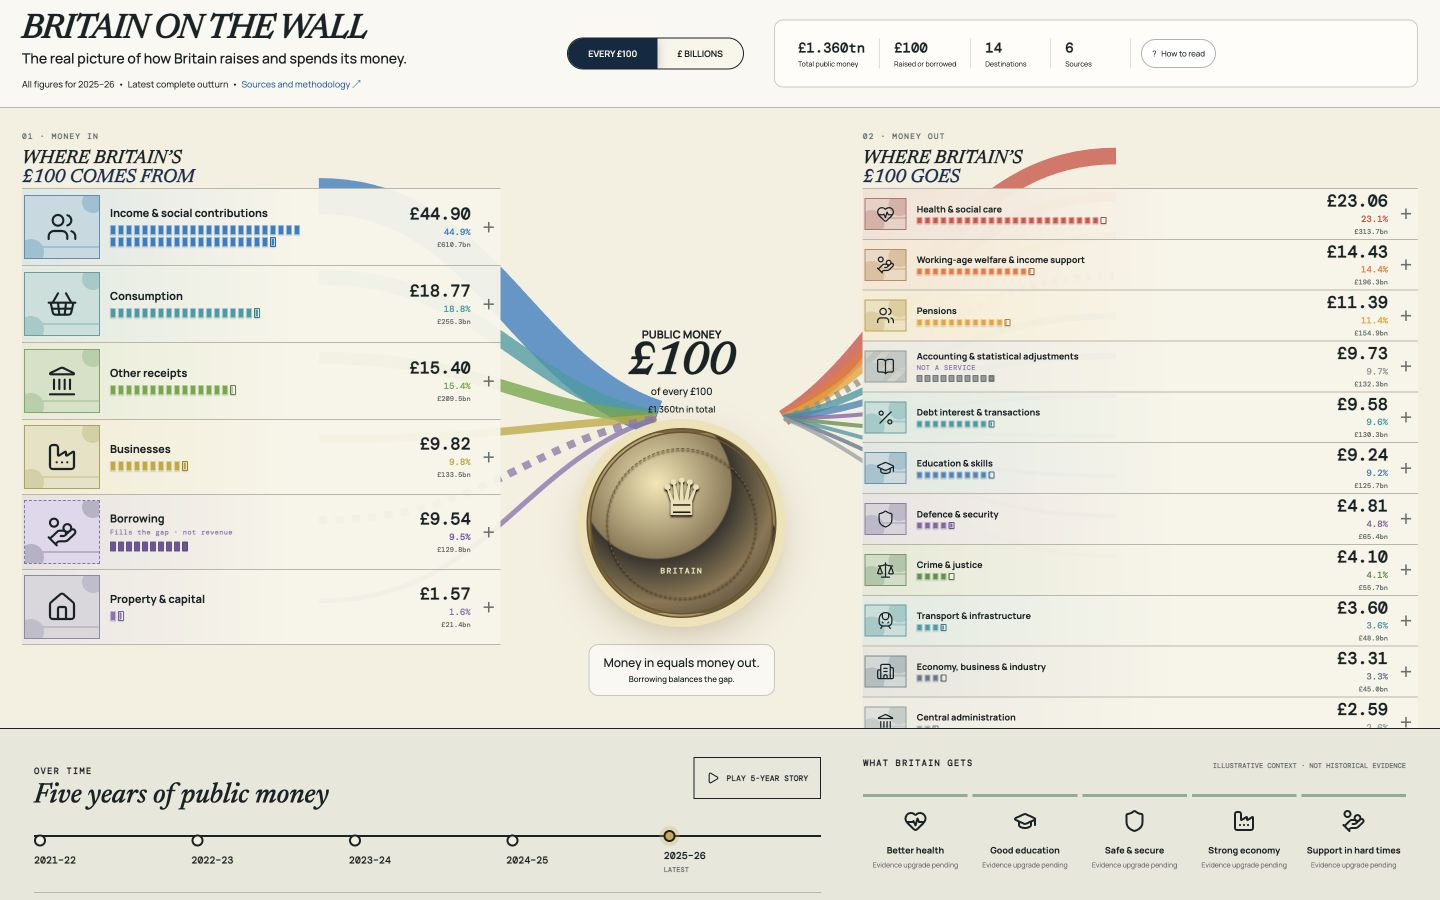
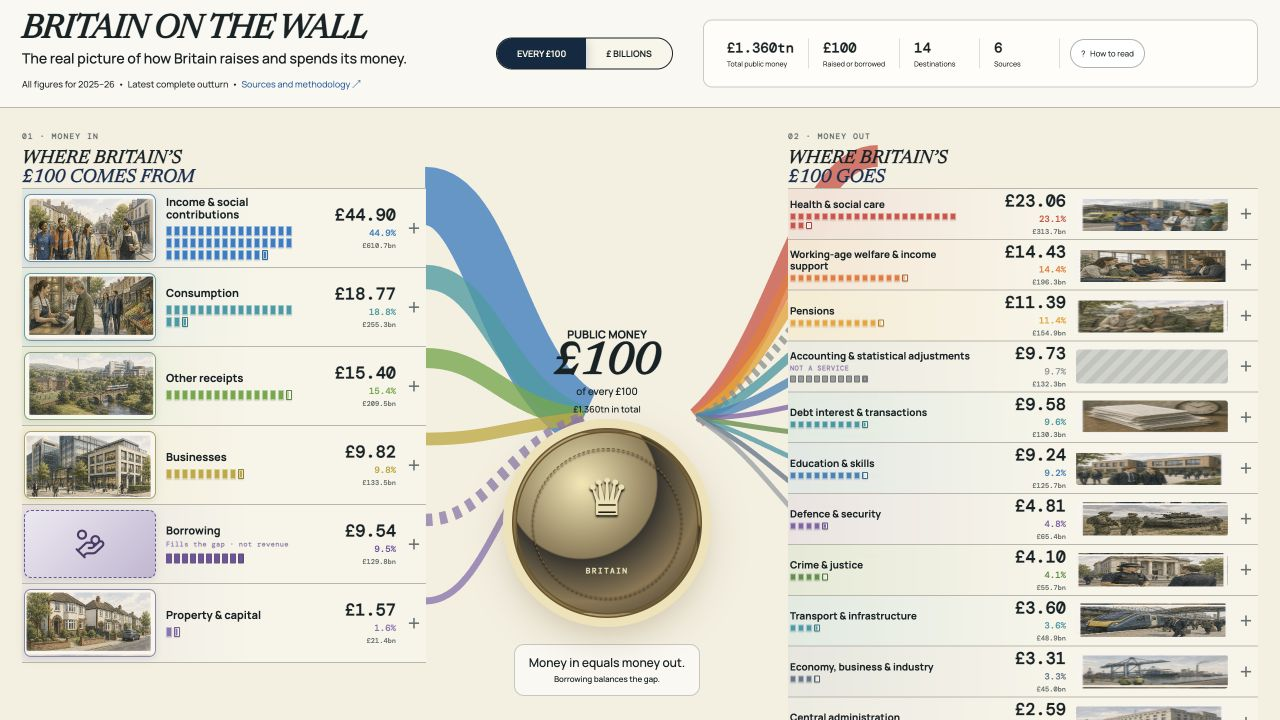
Replace Wall placeholders with editorial scenes

diff --git a/src/components/NationalWall.tsx b/src/components/NationalWall.tsx
@@ -12,6 +12,8 @@ type FiscalItem={id:string;name:string;value:number;evidenceId:string;technical?
 const icons={income:Users,business:Factory,consumer:ShoppingBasket,capital:Home,'other-income':Landmark,borrowing:HandCoins,health:HeartPulse,welfare:HandCoins,pensions:Users,education:GraduationCap,defence:Shield,justice:Scale,housing:Home,transport:TrainFront,admin:Landmark,interest:Percent,economy:Building2,environment:Leaf,culture:Palette,technical:BookOpen} as const;
 const outcomes=[['Better health',HeartPulse],['Good education',GraduationCap],['Safe & secure',Shield],['Strong economy',Factory],['Support in hard times',HandCoins]] as const;
 const tones=['#197fc4','#2a9ca3','#68a73f','#c2a82c','#7253a0','#8d73b1','#d84d43','#ee762b','#eda11d','#d6b428','#269aa2','#3685b8','#8465a7','#578f43','#2d9aa7','#63768a','#9aa1a5'];
+const sourceScene:Record<string,[number,number]>={income:[0,0],business:[1,0],consumer:[0,1],capital:[1,1],'other-income':[0,2],borrowing:[1,2]};
+const destinationScene:Record<string,[number,number]>={health:[0,0],welfare:[1,0],pensions:[2,0],education:[3,0],defence:[0,1],transport:[1,1],justice:[2,1],housing:[3,1],economy:[0,2],environment:[1,2],culture:[2,2],admin:[3,2],interest:[0,3],technical:[1,3]};
 const money=(value:number,total:number,unit:Unit)=>unit==='hundred'?`£${(value/total*100).toFixed(2)}`:`£${value.toFixed(1)}bn`;
 
 function UnitTokens({share,tone='standard',colour}:{share:number;tone?:'standard'|'borrowing'|'technical';colour?:string}){
@@ -23,8 +25,8 @@ function UnitTokens({share,tone='standard',colour}:{share:number;tone?:'standard
 }
 
 function FiscalRow({item,total,unit,direction,rank,openEvidence}:{item:FiscalItem;total:number;unit:Unit;direction:'in'|'out';rank:number;openEvidence:(id:string)=>void}){
-  const Icon=icons[item.id as keyof typeof icons]??Landmark;const share=item.value/total*100;const colour=item.borrowing?'#7253a0':item.technical?'#92999b':tones[direction==='in'?rank:rank+6];
-  return <button style={{'--row-colour':colour} as React.CSSProperties} className={`fiscal-row ${direction} ${rank<3?'major':''} ${item.borrowing?'borrowing':''} ${item.technical?'technical':''}`} onClick={()=>openEvidence(item.evidenceId)} aria-label={`${item.name} ${money(item.value,total,unit)}, ${share.toFixed(1)} percent`}>
+  const Icon=icons[item.id as keyof typeof icons]??Landmark;const share=item.value/total*100;const colour=item.borrowing?'#7253a0':item.technical?'#92999b':tones[direction==='in'?rank:rank+6];const slot=(direction==='in'?sourceScene:destinationScene)[item.id]??[0,0];
+  return <button style={{'--row-colour':colour,'--scene-x':String(slot[0]),'--scene-y':String(slot[1])} as React.CSSProperties} className={`fiscal-row ${direction} ${rank<3?'major':''} ${item.borrowing?'borrowing':''} ${item.technical?'technical':''}`} onClick={()=>openEvidence(item.evidenceId)} aria-label={`${item.name} ${money(item.value,total,unit)}, ${share.toFixed(1)} percent`}>
     <span className="scene" aria-hidden="true"><Icon/><i/><i/><i/></span>
     <span className="row-copy"><strong>{item.name}</strong>{item.borrowing&&<small>Fills the gap · not revenue</small>}{item.technical&&<small>NOT A SERVICE</small>}<UnitTokens share={share} colour={colour} tone={item.borrowing?'borrowing':item.technical?'technical':'standard'}/></span>
     <span className="row-number"><b>{money(item.value,total,unit)}</b><em>{share.toFixed(1)}%</em><small>{unit==='hundred'?`£${item.value.toFixed(1)}bn`:`£${share.toFixed(2)} / £100`}</small></span>
@@ -43,7 +45,7 @@ export function NationalWall({year,setYear,unit,setUnit,openEvidence}:Props){
     <header className="editorial-header"><div className="brand-lockup"><a className="wordmark" href="/">BRITAIN ON THE WALL</a><p>The real picture of how Britain raises and spends its money.</p><small>All figures for {displayPeriod(year)} &nbsp;•&nbsp; Latest complete outturn &nbsp;•&nbsp; <button onClick={()=>openEvidence('e-income')}>Sources and methodology ↗</button></small></div><div className="header-unit-toggle unit-toggle"><button className={unit==='hundred'?'active':''} onClick={()=>setUnit('hundred')}>EVERY £100</button><button className={unit==='bn'?'active':''} onClick={()=>setUnit('bn')}>£ BILLIONS</button></div><div className="header-summary"><span><b>{total>=1000?`£${(total/1000).toFixed(3)}tn`:`£${total.toFixed(1)}bn`}</b><small>Total public money</small></span><span><b>£100</b><small>Raised or borrowed</small></span><span><b>{destinations.length}</b><small>Destinations</small></span><span><b>{sources.length}</b><small>Sources</small></span><button onClick={()=>setShowHelp(!showHelp)} aria-expanded={showHelp}>? &nbsp; How to read</button></div></header>
     {showHelp&&<aside className="read-note">Each physical token is £1 of every £100. Partial tokens show fractions. Width and ordering follow the selected period; borrowing remains separate from receipts.</aside>}
     <section className="money-stage">
-      <svg className="editorial-flows" viewBox="0 0 1400 620" preserveAspectRatio="none" aria-hidden="true">{sources.map((item,i)=><path key={item.id} className={item.borrowing?'borrow-flow':''} d={`M 310 ${88+i*81} C 470 ${88+i*81}, 505 ${310+(i-2.5)*18}, 638 310`} stroke={item.borrowing?'#7253a0':tones[i]} strokeWidth={Math.max(5,item.value/total*80)} />)}{destinations.map((item,i)=><path key={item.id} className={item.technical?'technical-flow':''} d={`M 762 310 C 875 ${310+(i-6)*12}, 920 ${48+i*40}, 1085 ${48+i*40}`} stroke={item.technical?'#92999b':tones[i+6]} strokeWidth={Math.max(4,item.value/total*72)} />)}</svg>
+      <svg className="editorial-flows" viewBox="0 0 1400 620" preserveAspectRatio="none" aria-hidden="true">{sources.map((item,i)=><path key={item.id} className={item.borrowing?'borrow-flow':''} d={`M 465 ${88+i*81} C 535 ${88+i*81}, 550 ${310+(i-2.5)*18}, 638 310`} stroke={item.borrowing?'#7253a0':tones[i]} strokeWidth={Math.max(7,item.value/total*130)} />)}{destinations.map((item,i)=><path key={item.id} className={item.technical?'technical-flow':''} d={`M 762 310 C 850 ${310+(i-6)*12}, 875 ${48+i*40}, 960 ${48+i*40}`} stroke={item.technical?'#92999b':tones[i+6]} strokeWidth={Math.max(5,item.value/total*95)} />)}</svg>
       <section className="fiscal-column sources"><div className="section-heading"><small>01 · MONEY IN</small><h1>Where Britain’s<br/><em>£100 comes from</em></h1></div>{sources.map((item,i)=><FiscalRow key={item.id} item={item} total={total} unit={unit} direction="in" rank={i} openEvidence={openEvidence}/>)}</section>
       <section className="pool-column"><div className="pool-label"><span>PUBLIC MONEY</span><strong>£100</strong><em>of every £100</em><small>{total>=1000?`£${(total/1000).toFixed(3)}tn in total`:`£${total.toFixed(1)}bn in total`}</small></div><div className="pool-object"><div className="britain-mark">BRITAIN</div></div><p>Money in equals money out.<br/><small>Borrowing balances the gap.</small></p></section>
       <section className="fiscal-column destinations"><div className="section-heading"><small>02 · MONEY OUT</small><h1>Where Britain’s<br/><em>£100 goes</em></h1></div>{destinations.map((item,i)=><FiscalRow key={item.id} item={item} total={total} unit={unit} direction="out" rank={i} openEvidence={openEvidence}/>)}</section>

diff --git a/src/national.css b/src/national.css
@@ -25,3 +25,11 @@ html:has(.national-wall),body:has(.national-wall),#root:has(.national-wall){heig
 @media(min-width:1700px){.money-stage{height:690px;padding-left:38px;padding-right:38px}.fiscal-row{min-height:82px}.destinations .fiscal-row{min-height:41px}.destinations .fiscal-row.major{min-height:51px}.pool-object{width:230px;height:230px}}
 @media(max-width:1000px){.editorial-header{height:auto;grid-template-columns:1fr auto}.header-summary{grid-column:1/-1;width:100%}}
 @media(max-width:600px){.editorial-header{grid-template-columns:1fr}.wordmark{font-size:27px}.header-unit-toggle{justify-self:start}.header-summary{overflow:auto}.header-summary>span{min-width:90px}.editorial-footer{height:auto;padding:14px;flex-wrap:wrap}.editorial-footer nav{margin-left:0}}
+
+/* Commissioned editorial scene sheets */
+.sources .fiscal-row{grid-template-columns:132px minmax(0,1fr) 88px 18px}.sources .scene{width:132px;height:68px;background-image:url('/illustrations/fiscal-sources-v1.png');background-size:200% 300%;background-position:calc(var(--scene-x) * 100%) calc(var(--scene-y) * 50%);border-radius:7px;box-shadow:0 2px 8px #25332b20}
+.destinations .fiscal-row{grid-template-columns:minmax(175px,1fr) 80px 152px 18px}.destinations .scene{grid-column:3;grid-row:1;width:152px;height:34px;background-image:url('/illustrations/fiscal-destinations-v1.png');background-size:400% 400%;background-position:calc(var(--scene-x) * 33.333%) calc(var(--scene-y) * 33.333%);border:0;border-radius:3px}.destinations .row-copy{grid-column:1;grid-row:1}.destinations .row-number{grid-column:2;grid-row:1}.destinations .expand{grid-column:4;grid-row:1}.scene>svg,.scene>i{display:none}.destinations .row-copy strong{font-size:10px;max-width:180px}.destinations .unit-tokens{max-width:170px}.fiscal-row.borrowing .scene,.fiscal-row.technical .scene{filter:saturate(.72)}
+.fiscal-row.borrowing .scene{background-image:linear-gradient(135deg,#eee7f5,#c5b5dc);border:1px dashed #7253a0}.fiscal-row.borrowing .scene>svg{display:block;color:#4e3976}
+@media(max-width:1200px) and (min-width:1001px){.sources .fiscal-row{grid-template-columns:92px minmax(0,1fr) 78px 14px}.sources .scene{width:92px}.destinations .fiscal-row{grid-template-columns:minmax(140px,1fr) 72px 110px 14px}.destinations .scene{width:110px}}
+@media(max-width:1000px){.sources .fiscal-row{grid-template-columns:132px minmax(0,1fr) 88px 18px}.destinations .fiscal-row{grid-template-columns:minmax(175px,1fr) 80px 152px 18px}}
+@media(max-width:600px){.sources .fiscal-row{grid-template-columns:76px minmax(0,1fr) 76px 14px}.sources .scene{width:76px}.destinations .fiscal-row{grid-template-columns:minmax(120px,1fr) 72px 78px 14px}.destinations .scene{width:78px}}

diff --git a/docs/CODEX_HANDOFF.md b/docs/CODEX_HANDOFF.md
@@ -7,11 +7,11 @@
 3. **£1 units:** Each row calculates its unrounded share of the current total, renders one premium token per whole pound and clips a final token to the remaining fraction.
 4. **Flows:** Calm source and allocation curves converge on the medallion. Stroke widths are linearly proportional to national share with small visibility floors; borrowing and technical reconciliation use dashed treatments.
 5. **Ordering:** Source and destination arrays are sorted descending from the selected-period adapter values. The three largest rows receive greater height and visual prominence.
-6. **Illustrations:** Category-specific line SVGs are placed in a consistent editorial scene frame. They are coherent code-native placeholders designed for later artwork replacement without layout changes.
+6. **Illustrations:** Two generated editorial scene sheets use the approved reference as their strict style source. Stable taxonomy coordinates crop six source scenes and fourteen destination scenes; borrowing remains separately illustrated in violet.
 7. **Borrowing:** It remains `TME − comparable current receipts`, is labelled as gap-filling rather than revenue, and uses violet tokens plus a dashed flow.
 8. **Technical reconciliation:** `ACCOUNTING & STATISTICAL ADJUSTMENTS` remains in the exact £100 reconciliation but is grey/hatched/dashed and explicitly `NOT A SERVICE`.
-9. **Difference from reference:** Illustrations are structured SVG placeholders rather than the reference's commissioned scenes, and the medallion uses a stylised British crown mark rather than a geographic relief. Verified adapter values intentionally replace differing example values in the image.
-10. **Next refinement:** Commission or generate the final consistent British editorial illustration set and replace the crown with a licensed/verified UK relief asset without changing layout or data bindings.
+9. **Difference from reference:** The medallion uses a stylised British crown rather than a geographic relief. Verified adapter values intentionally replace differing example values in the image.
+10. **Next refinement:** Replace the crown with a licensed/verified UK relief asset and continue exact spacing refinement without changing layout or data bindings.
 
 Implementation: `src/components/NationalWall.tsx`, `src/national.css`, route selection in `src/App.tsx`. Real data, evidence, reconciliation and historical adapters are unchanged.
 

diff --git a/docs/WALL_VISUAL_SPEC.md b/docs/WALL_VISUAL_SPEC.md
@@ -9,7 +9,7 @@ The public national route is an editorial page, not the legacy spatial canvas. I
 - **Central object:** a warm metallic, double-ring Britain medallion says `PUBLIC MONEY`, `£100`, `of every £100` and the selected-period total. It is the sole visual convergence point.
 - **Flow grammar:** source and destination strokes are derived from the same adapter values. Width is `max(4px, share × 52px)` for sources and `max(3px, share × 48px)` for destinations in the 1400×660 authored viewBox. Borrowing and technical flows are dashed and distinct.
 - **Destination rows:** every non-zero frozen destination is sorted descending for the selected period. The three largest have extra height; the long tail remains compact. Accounting/statistical adjustments is hatched and says `NOT A SERVICE`.
-- **Illustration system:** reusable line-SVG scenes use one restrained architectural frame, inherited teal/green surfaces and category-specific Lucide drawings. They are deliberately swappable placeholders for final commissioned editorial artwork without changing layout or data bindings.
+- **Illustration system:** two generated editorial scene sheets follow the approved reference's warm British data-journalism treatment. Stable taxonomy-to-sprite coordinates crop six source scenes and fourteen destination scenes; borrowing retains a distinct purple code-native fallback. The artwork can be replaced without changing layout or data bindings.
 - **Numeric hierarchy:** Every £100 defaults to `£23.06`, then `23.1%`, then `£313.7bn`. Billions mode promotes `£313.7bn`, retains `23.1%`, and demotes `£23.06 / £100`.
 - **Borrowing:** calculated as TME less comparable current receipts, labelled `Fills the gap · not revenue`, and rendered with violet tokens plus a dashed flow.
 - **Bottom strip:** the five accepted outturns retain adapter-driven interaction and deterministic largest-change calculations. Outcomes remain a separate, quiet strip labelled `ILLUSTRATIVE CONTEXT · NOT HISTORICAL EVIDENCE`.

diff --git a/docs/handoffs/2026-08-25-approved-100-wall.md b/docs/handoffs/2026-08-25-approved-100-wall.md
@@ -10,7 +10,7 @@ The main route now presents Britain's real 2025–26 fiscal snapshot as source b
 - Fiscal source, destination and history values come from the existing frozen adapters.
 - Outcomes remain illustrative and are visibly labelled as such.
 - The approved reference image arrived after the first implementation commit and was used for a direct visual-fidelity refinement pass.
-- Code-native SVG scene placeholders are used until final editorial illustration assets are available.
+- The placeholder-only pass was rejected. Two production scene sheets were then generated with the built-in image-generation workflow using the approved screenshot as the strict style reference: `public/illustrations/fiscal-sources-v1.png` and `public/illustrations/fiscal-destinations-v1.png`. CSS crops the six source and fourteen destination scenes by stable taxonomy ID.
 
 ## Verification
 
